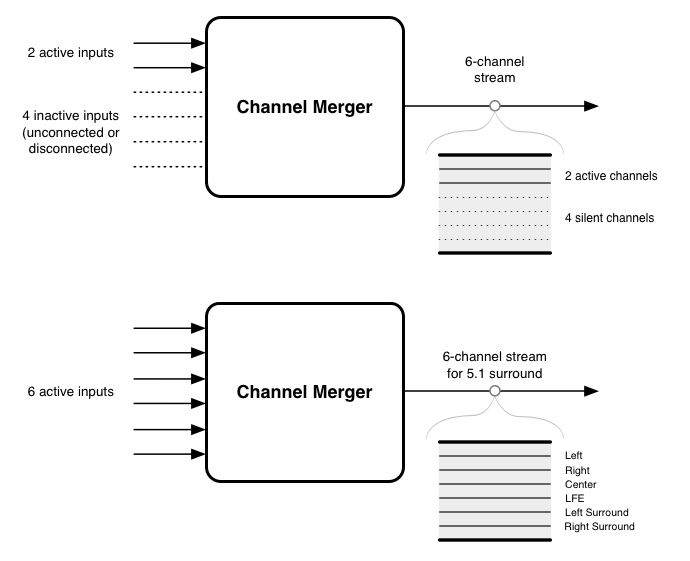
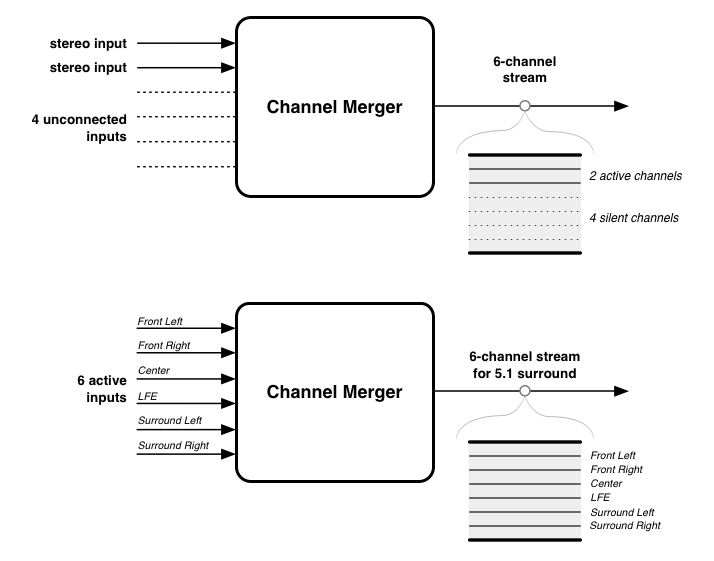
update

diff --git a/index.html b/index.html
@@ -3457,49 +3457,43 @@ in the following operation:
   This interface represents an <a><code>AudioNode</code></a> for combining channels from
   multiple audio streams into a single audio stream. It has a variable number of
   inputs (defaulting to 6), but not all of them need be connected. There is a
-  single output whose audio stream has a number of channels equal to the numbers 
+  single output whose audio stream has a number of channels equal to the number
   of inputs.
 </p>
 <p>
-  To merge multiple inputs into one stream, each input gets downmixed into 1 
-  channel (mono) based on the specified mixing rule. For undefined channel layout, 
-  the mixing rule falls back to <code>discrete</code> mode and the 
-  <a><code>ChannelMergerNode</code></a> takes the first channel from the input 
-  and drops the rest.
+  To merge multiple inputs into one stream, each input gets downmixed into one
+  channel (mono) based on the specified mixing rule. An unconnected input still
+  counts as <b>one silent channel</b> in the output. Changing input streams does
+  <b>not</b> affect the order of output channels.
 </p>
 <p>
-  For example, if a <a><code>ChannelMergerNode</code></a> has two connected 
-  inputs (both stereo), the output will be 6 channels whose first two channels 
-  are be filled with the first two inputs and the rest of channels will be silent.
+  For <a><code>ChannelMergerNode</code></a>, <code>channelCount</code> and
+  <code>channelCountMode</code> properties cannot be changed. <code>InvalidState</code>
+  error MUST be thrown when they changed.
 </p>
 
 <h3 id="example-2">Example:</h3>
+<p>
+  For example, if a default <a><code>ChannelMergerNode</code></a> has two connected
+  inputs (both stereo), the first and second input will be downmixed to mono respectively
+  before merging. The output will be a 6-channel stream whose first two channels
+  are be filled with the first two inputs and the rest of channels will be silent.
+</p>
+<p>
+  Also the <a><code>ChannelMergerNode</code></a> can be used to arrange multiple
+  audio streams in a certain order for the multi-channel speaker array such as
+  5.1 surround set up. Note that in this example, the merger does not interpret
+  the channel identities (such as left, right, etc.), but simply combines channels
+  in the order that they are input.
+</p>
+
 <figure>
   <img alt="channel merger" src="images/channel-merger.png">
   <figcaption>A diagram of ChannelMerger</figcaption>
 </figure>
 
 <p>
-  An inactive or disconnected input still counts as <b>one silent channel</b> in the 
-  output. Changing input streams does <b>not</b> affect the order of output channels.
-  Also note that in this example, the merger does not interpret the channel identities 
-  (such as left, right, etc.), but simply combines channels in the order that 
-  they are input.
-</p>
-<p>
-  For <a><code>ChannelMergerNode</code></a>, <code>channelCount</code> and 
-  <code>channelCountMode</code> properties cannot be changed. <code>InvalidState</code> 
-  error MUST be thrown when they changed.
-</p>
-<p>
-  Be aware that it is possible to connect an <a><code>ChannelMergerNode</code></a> in
-  such a way that it outputs an audio stream with a large number of channels
-  greater than the maximum supported by the audio hardware. In this case where
-  such an output is connected to the <a><code>AudioContext</code></a>
-  <a href="#widl-AudioContext-destination"><code>destination</code></a> (the
-  audio hardware), then the extra channels will be ignored.  Thus, the
-  <a><code>ChannelMergerNode</code></a> should be used in situations where the number of
-  channels is well understood.
+
 </p>
 
 <dl title="interface ChannelMergerNode : AudioNode" class="idl">
@@ -7107,12 +7101,11 @@ battery-life issues.
 <p>This specification is the collective work of the W3C <a href="http://www.w3.org/2011/audio/">Audio Working Group</a>.</p>
 
 <p>Members of the Working Group are (at the time of writing, and by alphabetical order): <br />
-Adenot, Paul (Mozilla Foundation) - Specification Co-editor;
+Adenot, Paul (Mozilla Foundation);
 Akhgari, Ehsan (Mozilla Foundation);
-Berkovitz, Joe (Invited Expert) – WG Chair;
+Berkovitz, Joe (Invited Expert);
 Bossart, Pierre (Intel Corporation);
 Carlson, Eric (Apple, Inc.);
-Choi, Hongchan (Google, Inc.);
 Geelnard, Marcus (Opera Software);
 Goode, Adam (Google, Inc.);
 Gregan, Matthew (Mozilla Foundation);
@@ -7129,10 +7122,9 @@ Raman, T.V. (Google, Inc.);
 Schepers, Doug (W3C/MIT);
 Shires, Glen (Google, Inc.);
 Smith, Michael (W3C/Keio);
-Thereaux, Olivier (British Broadcasting Corporation);
-Toy, Raymond (Google, Inc.);
+Thereaux, Olivier (British Broadcasting Corporation) – WG Chair;
 Verdie, Jean-Charles (MStar Semiconductor, Inc.);
-Wilson, Chris (Google,Inc.) - Specification Co-editor;
+Wilson, Chris (Google,Inc.);
 ZERGAOUI, Mohamed (INNOVIMAX)
 </p>
 
